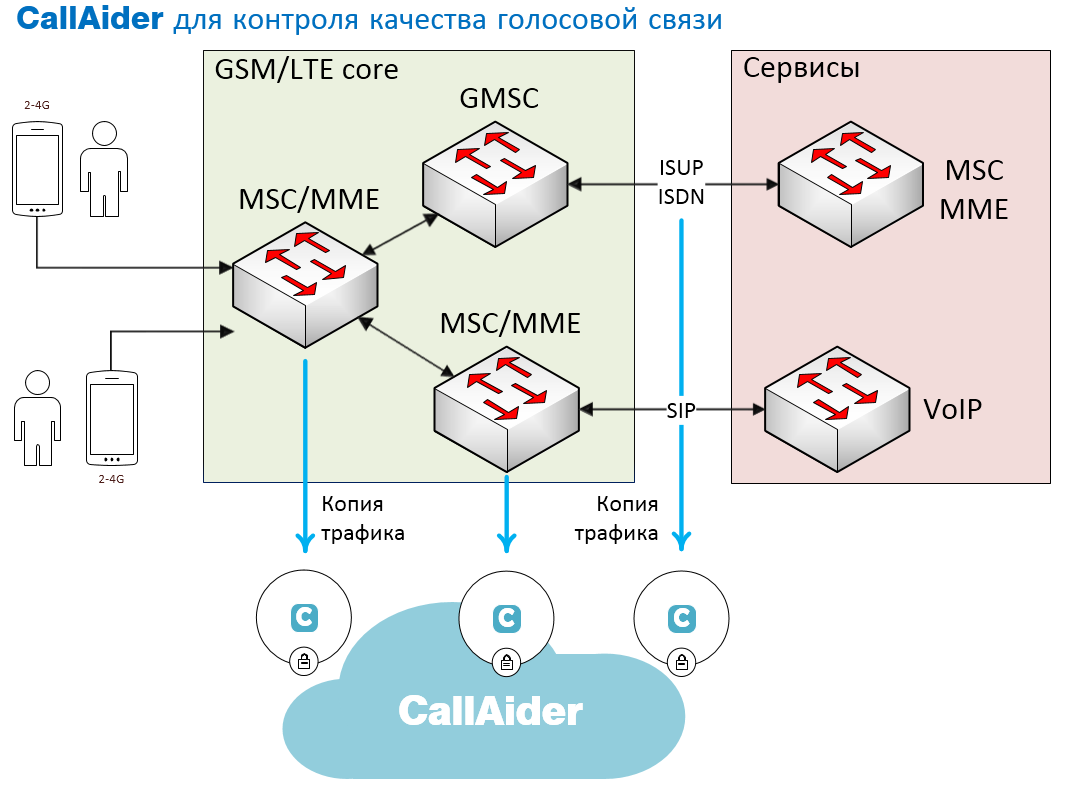
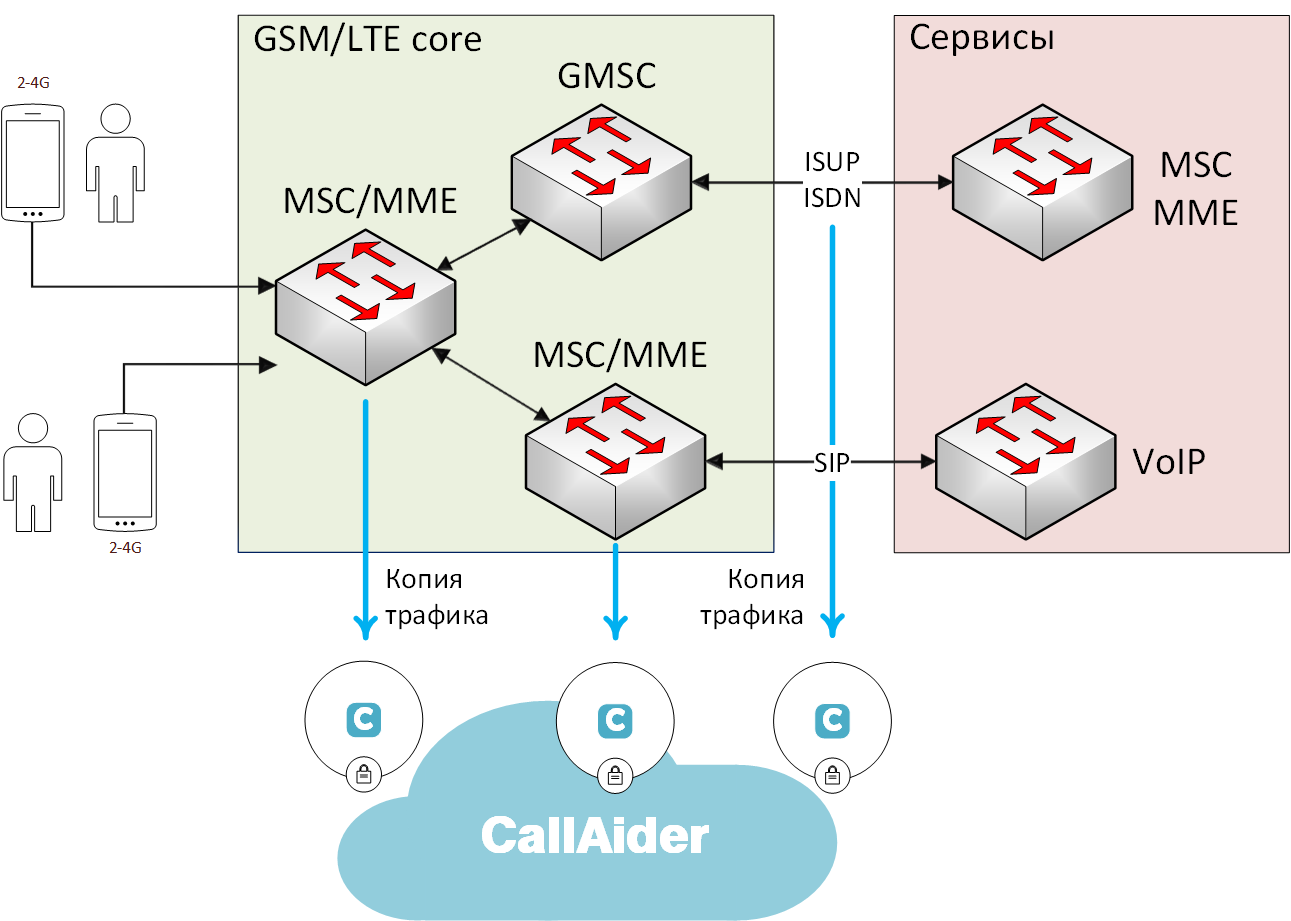
поправлены картинки, проведена SEO, Добавлены клиенты-партнеры

diff --git a/www/company.html b/www/company.html
@@ -4,11 +4,12 @@
 		<meta charset="utf-8">
 		<meta http-equiv="X-UA-Compatible" content="IE=edge">
 		<meta name="viewport" content="width=device-width, initial-scale=1.0">
-		<meta name="description" content="Bootstack - Bootstrap 3 Landing Page Theme">
+		<meta name="description" content="Информация о компании Atalas Inc. Разработчике аналитической платформы медаитора CallAider  для контроля  качественных характеристик ( KPI ) и антифрод ( antifraud )  для голосового сервиса, VAS сервисов ( SMS, LBS, MMS,VoIP, IVR,IP, SS7, SIGTRAN ) операторов сотовой связи">
+		<meta name="author" content="Atalassofrware.com">	
+		<title>CallAider аналитческая платформа. О Компании Atalas Inc</title>	
 		<meta name="keywords" content="">
-		<meta name="author" content="Daniely Wright">
 		<link href="assets/img/favicon.png" rel="shortcut icon" >
-		<title>About</title>
+		<title>CallAider аналитческая платформа. О Компании</title>
 
 		<!-- Bootstrap core CSS -->
 		<link href="assets/css/bootstrap.min.css" rel="stylesheet">
@@ -159,20 +160,51 @@
 			<div class="intro">
 				<div class="container">
 					<div class="row text-center">
+						<h2>Наши клиенты и партнеры</h2>
+						<br>
+						<br>
+							<div style="float:left;width:11%">
+								<img src="img/megafon.jpeg" alt="Мегафон" style="width:120px;height:auto;align:middle">
+							</div>
+							<div style="float:left;width:11%">
+								<img src="img/mts.jpeg" alt="МТС" style="width:120px;height:auto;align:middle">
+							</div>
+							<div style="float:left;width:11%">
+								<img src="img/rostelecom.jpeg" alt="Ростелеком" style="width:120px;height:auto;align:middle">
+							</div>
+							<div style="float:left;width:11%">
+								<img src="img/tele2.jpeg" alt="Теле2" style="width:120px;height:auto;align:middle">
+							</div>
+							<div style="float:left;width:11%">
+								<img src="img/motiv.png" alt="Мотив" style="width:120px;height:auto;align:middle">
+							</div>
+							<div style="float:left;width:15%">
+								<img src="img/usi.gif" alt="Уралсвязьниформ" style="width:150px;height:auto;align:middle;">
+							</div>
+							<div style="float:left;width:15%">
+								<img src="img/utel.jpg" alt="Узбектелеком UTEL" style="width:150px;height:auto;align:middle;">
+							</div>
+							<div style="float:left;width:11%">
+								<img src="img/bcc.png" alt="BCC" style="width:120px;height:auto;">
+							</div>
+							
+					</div>
+					<br>
+				</div> <!-- /container -->
+				<br>
+				<br>
+				<div class="container">
+					<div class="row text-center">
 						<h2>Инновационный подход к улучшению качества голосового сервиса</h2>
 						<br>
 						<div class="col-lg-2"></div>
 						<div class="col-lg-8">
 
-<p>Более 10 лет наша команда работает с операторами сотовой связи. Мы разработали десятки сервисов, которые эксплуатируются в России и за рубежом. </p>
-
-<p>Мы создавали “с нуля” федеральные решения для операторов “большой тройки”, которые обслуживают десятки миллионов абонентов.</p>
-<p>Мы отлично знаем специфику работы операторов сотовой связи, технологии с которыми они работают и условия эксплуатации программно-аппаратного обеспечения. </p>
-<p>Наша цель - сделать контроль качества и локализацию проблем в работе сервисов простой технической задачей. </p>
-
-<p>Мы создаем инструмент, способный контролировать качество выполнения сервиса, его соответствие алгоритмам и критериям, исключительно по его внешним проявлениям и взаимодействиям.</p>
-<p>Мы разработчики платформы и мы заинтересованны в сотрудничестве с интеграторами и поставщиками для поставки нашей платформы в составе крупных решений. Качество и кратчайшие сроки реализации требований гарантирует наш опыт работы. </p>
-<p>Мы готовы реализовать поддержку для аналитики работы специфических сервисов и с удовольствием возьмемся за интеграцию к внешним системам мониторинга, аналитики, CEM, SEM и BI платформ.</p>
+<p>Более 10 лет наша команда работает с операторами сотовой связи. Мы разработали десятки сервисов, которые эксплуатируются в России и за рубежом. Мы создавали “с нуля” федеральные решения для операторов “большой тройки”, которые обслуживают десятки миллионов абонентов.
+<br>Мы отлично знаем специфику работы операторов сотовой связи, технологии с которыми они работают и условия эксплуатации программно-аппаратного обеспечения. </p>
+<p>Наша цель - сделать контроль качества и локализацию проблем в работе сервисов простой технической задачей. <br/>Мы создаем инструмент, способный контролировать качество выполнения сервиса, его соответствие алгоритмам и критериям, исключительно по его внешним проявлениям и взаимодействиям.</p>
+<p>Мы разработчики платформы и мы заинтересованны в сотрудничестве с интеграторами для поставки нашей платформы в составе крупных решений. Качество и кратчайшие сроки реализации требований гарантирует наш опыт работы. 
+Мы готовы реализовать поддержку для аналитики работы специфических сервисов и интеграцию к внешним системам мониторинга, аналитики, CEM, SEM и BI платформ.</p>
 
 						</div>
 						<div class="col-lg-2"></div>
@@ -181,40 +213,17 @@
 					<br>
 				</div> <!-- /container -->
 			
-		
-				<div class="container">
-					<div class="row text-center">
-						<h2>Инновационный подход к улучшению качества голосового сервиса</h2>
-						<br>
-							<div style="float:left;width:12%">
-								<p>Rounded Corners:</p>
-								<img src="img/megafon.jpeg" alt="Мегафон" style="width:204px;height:auto;">
-							</div>
-							<div style="float:left;width:12%">
-								<p>Rounded Corners:</p>
-								<img src="img/megafon.jpeg" alt="Мегафон" style="width:204px;height:auto;">
-							</div>
-							<div style="float:left;width:12%">
-								<p>Rounded Corners:</p>
-								<img src="img/megafon.jpeg" alt="Мегафон" style="width:204px;height:auto;">
-							</div>
-					</div>
-
-					<br>
-				</div> <!-- /container -->
 			</div><!-- /introwrap -->
 			
 		</section>
 
-
-
-		<!-- Divider 2 Section -->
+		<!-- Divider 2 Section 
 		<div class="divider02">
 			<div class="container text-center">
 				<h3>Напишите нам</h3>
 				<a href="#" type="button" class="btn btn-lg btn-theme2">Написать >></a>
 			</div>
-		</div><!-- /divider02 -->
+		</div> /divider02 -->
 
 
 		<!-- Footer Wrap -->
@@ -225,7 +234,7 @@
 						<div class="col-lg-6">
 							<h3>Контакты</h3>
 							<br>
-							<p><span class="icon-location"></span> Russian Federation, Saint Perersburg<br/>
+							<p><span class="icon-location"></span> Россия. Санкт Петербург<br/>
 								<span class="icon-phone"></span> +7 (812) 936 16 46 <br/>
 								<span class="icon-envelope"></span> <a href="mailto:info@atalassoftaware.com">info@atalassoftaware.com</a>
 							</p>

diff --git a/www/how_it_work.html b/www/how_it_work.html
@@ -4,11 +4,10 @@
 		<meta charset="utf-8">
 		<meta http-equiv="X-UA-Compatible" content="IE=edge">
 		<meta name="viewport" content="width=device-width, initial-scale=1.0">
-		<meta name="description" content="Bootstack - Bootstrap 3 Landing Page Theme">
-		<meta name="keywords" content="">
-		<meta name="author" content="Daniely Wright">
-		<link href="assets/img/favicon.png" rel="shortcut icon" >
-		<title>How it works</title>
+		<meta name="description" content="Информация о принципах реализации и архитектуре аналитической платформы мелдаитора CallAider - решения  для контроля  качественных характеристик ( KPI ) и антифрод ( antifraud )  для голосового сервиса, VAS сервисов ( SMS, LBS, MMS,VoIP, IVR,IP, SS7, SIGTRAN ) операторов сотовой связи">
+		<meta name="author" content="Atalassofrware.com">	
+		<link href="assets/img/favicon.png" rel="shortcut icon"  >
+		<title>CallAider. Принципы реализации платформы</title>
 
 		<!-- Bootstrap core CSS -->
 		<link href="assets/css/bootstrap.min.css" rel="stylesheet">

diff --git a/www/index.html b/www/index.html
@@ -4,11 +4,10 @@
 		<meta charset="utf-8">
 		<meta http-equiv="X-UA-Compatible" content="IE=edge">
 		<meta name="viewport" content="width=device-width, initial-scale=1.0">
-		<meta name="description" content="Bootstack - Bootstrap 3 Landing Page Theme">
-		<meta name="keywords" content="">
-		<meta name="author" content="Daniely Wright">
-		<link href="assets/img/favicon.png" rel="shortcut icon" >
-		<title>CallAider</title>
+		<meta name="description" content="Аналитическая платформа медиатор CallAider. Эффективное решение для операторов сотоврой связи. Контроль  качественных характеристик ( KPI ) и антифрод ( antifraud )  для голосового сервиса, VAS сервисов ( SMS, LBS, MMS,VoIP, IVR,IP, SS7, SIGTRAN )">
+		<meta name="author" content="Atalassofrware.com">	
+		<title>CallAider аналитческая платформа для операторов сотовой связи. </title>
+		<link href="assets/img/favicon.png" rel="shortcut icon"  >
 
 		<!-- Bootstrap core CSS -->
 		<link href="assets/css/bootstrap.min.css" rel="stylesheet">

diff --git a/www/solutions.html b/www/solutions.html
@@ -4,11 +4,10 @@
 		<meta charset="utf-8">
 		<meta http-equiv="X-UA-Compatible" content="IE=edge">
 		<meta name="viewport" content="width=device-width, initial-scale=1.0">
-		<meta name="description" content="Bootstack - Bootstrap 3 Landing Page Theme">
-		<meta name="keywords" content="">
-		<meta name="author" content="Daniely Wright">
-		<link href="assets/img/favicon.png" rel="shortcut icon" >
-		<title>Solutions</title>
+		<meta name="description" content="Примеры и принципиальные схемы построения решений для операторов сотовой связи на аналитической платформе CallAider . Контроль  качественных характеристик ( KPI ) и антифрод ( antifraud )  для голосового сервиса, VAS сервисов ( SMS, LBS, MMS,VoIP, IVR,IP, SS7, SIGTRAN )">
+		<meta name="author" content="Atalassofrware.com">	
+		<link href="assets/img/favicon.png" rel="shortcut icon"  >
+		<title>CallAider.  Готовые решения</title>
 
 		<!-- Bootstrap core CSS -->
 		<link href="assets/css/bootstrap.min.css" rel="stylesheet">

diff --git a/www/thankyou.html b/www/thankyou.html
@@ -7,7 +7,7 @@
 		<meta name="description" content="Bootstack - Bootstrap 3 Landing Page Theme">
 		<meta name="keywords" content="">
 		<meta name="author" content="Daniely Wright">
-		<link href="assets/img/favicon.png" rel="shortcut icon" >
+		<link href="assets/img/favicon.ico" rel="shortcut icon"  type="image/x-icon">
 		<title>CallAider Main</title>
 
 		<!-- Bootstrap core CSS -->

diff --git a/www/thankyou.php b/www/thankyou.php
@@ -38,11 +38,10 @@ if( mail($_POST['to'], $newsubject, $message, $headers)){
 		<meta charset="utf-8">
 		<meta http-equiv="X-UA-Compatible" content="IE=edge">
 		<meta name="viewport" content="width=device-width, initial-scale=1.0">
-		<meta name="description" content="Bootstack - Bootstrap 3 Landing Page Theme">
-		<meta name="keywords" content="">
-		<meta name="author" content="Daniely Wright">
-		<link href="assets/img/favicon.png" rel="shortcut icon" >
-		<title>Thank you!</title>
+		<meta name="description" content="CallAider аналитическая платформа медиатор для контроля  качественных характеристик ( KPI ) и антифрод ( antifraud )  для голосового сервиса, VAS сервисов ( SMS, LBS, MMS,VoIP, IVR,IP, SS7, SIGTRAN )">
+		<meta name="author" content="Atalassofrware.com">
+		<link href="assets/img/favicon.png" rel="shortcut icon"  >
+		<title>CallAider. Спасибо, за ваш интерес.</title>
 
 		<!-- Bootstrap core CSS -->
 		<link href="assets/css/bootstrap.min.css" rel="stylesheet">
